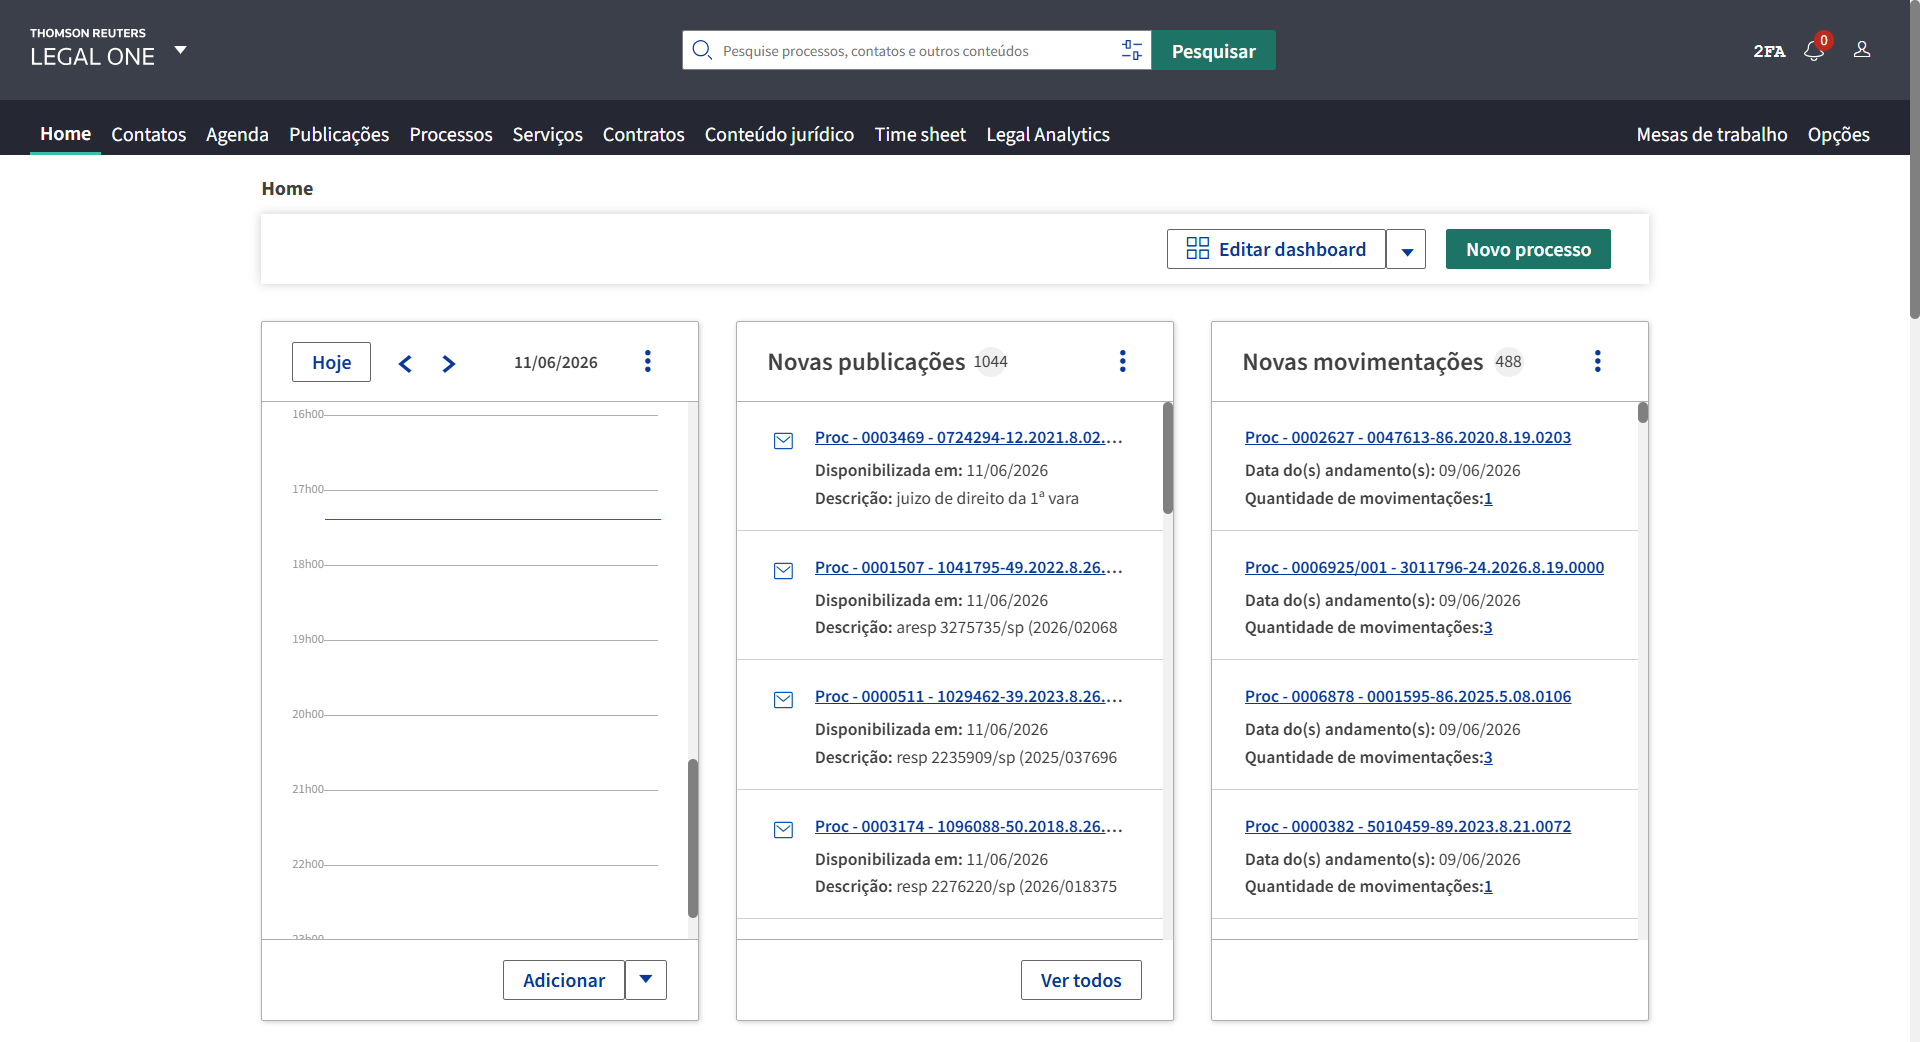
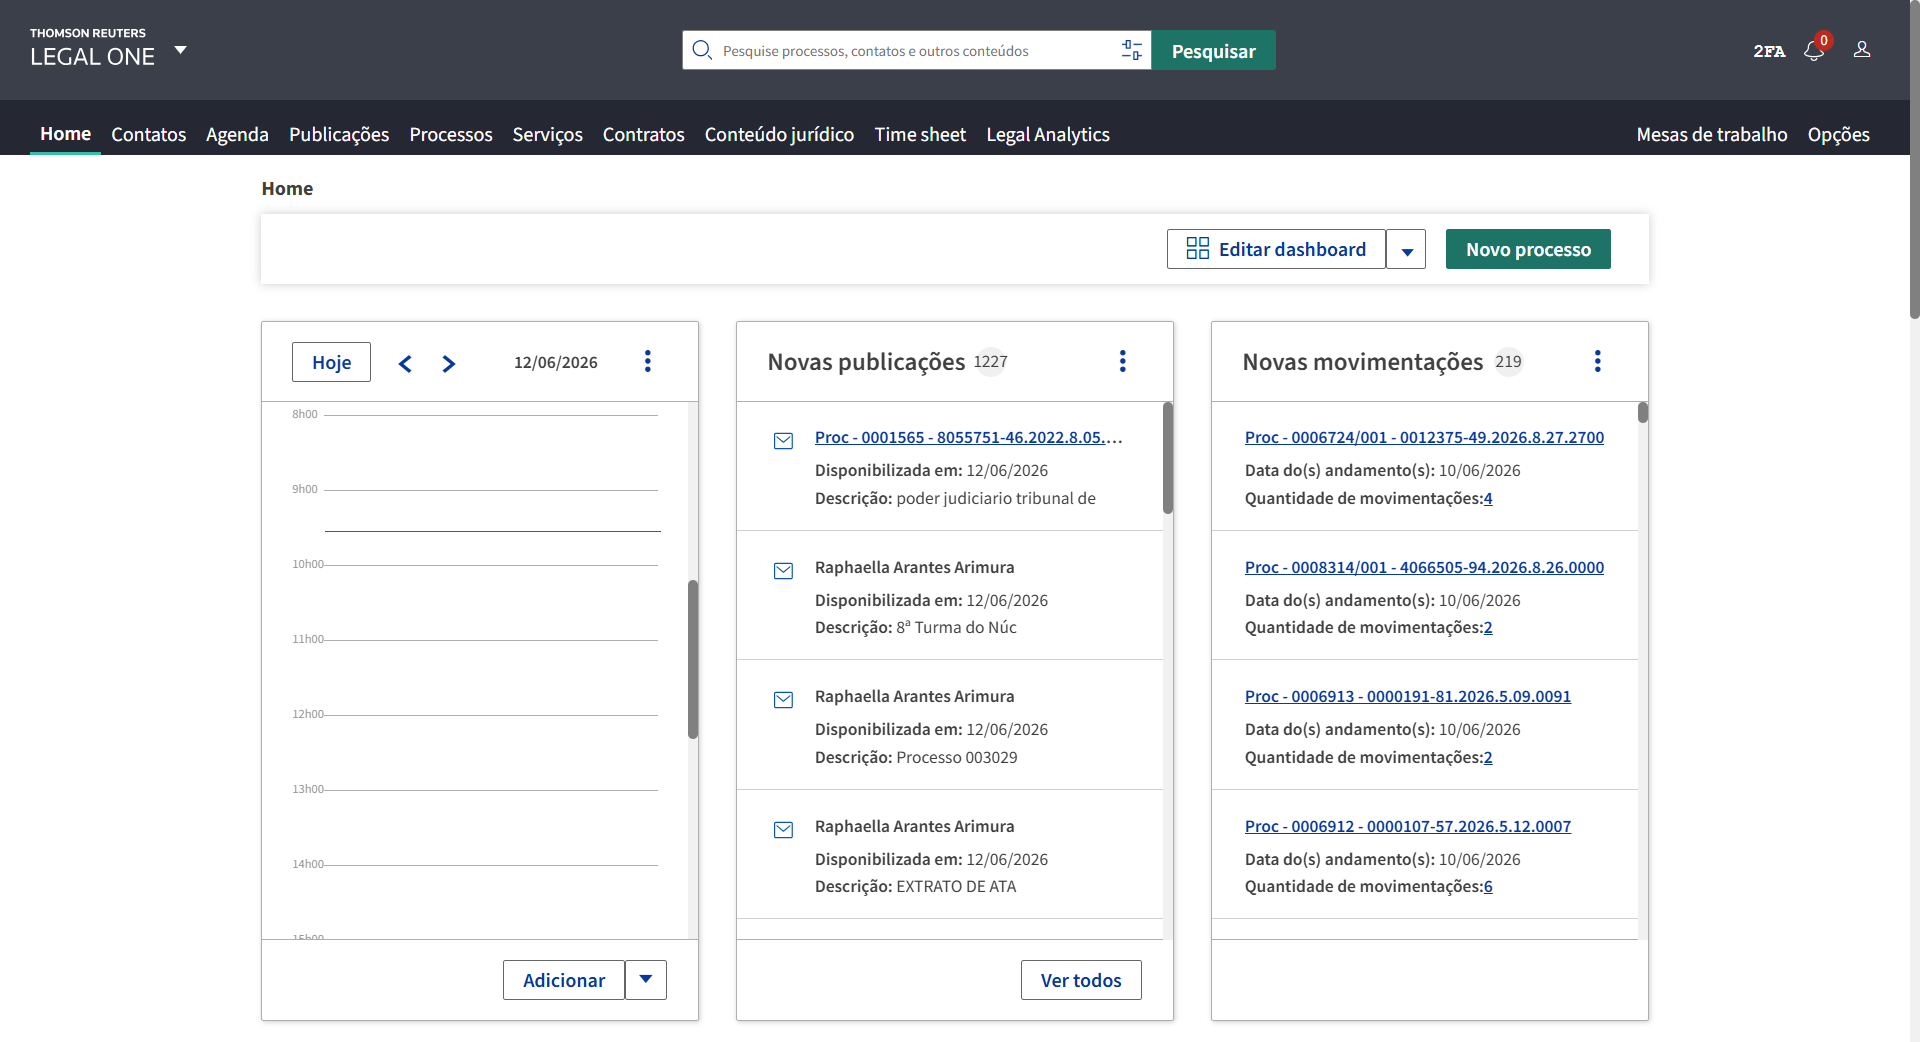
Fix: Update "driver.execute_script" in line 670 in file acoes.py

diff --git a/adapters/web/acoes.py b/adapters/web/acoes.py
@@ -667,7 +667,7 @@ def clicar_link_processo(driver, dados: dict = None, adapta_info: dict = None) -
                 else:
                     driver.execute_script("""
                         var tt = document.getElementById('TipoText');
-                        if (tt && !tt.value) {{ tt.value = 'Diversos'; tt.dispatchEvent(new Event('input',{{bubbles:true}})); }}
+                        if (tt && !tt.value) { tt.value = 'Diversos'; tt.dispatchEvent(new Event('input', {bubbles:true})); }
                     """)
                     logging.info("[ACAO] Tipo nao classificado. Restaurado 'Diversos'.")
 